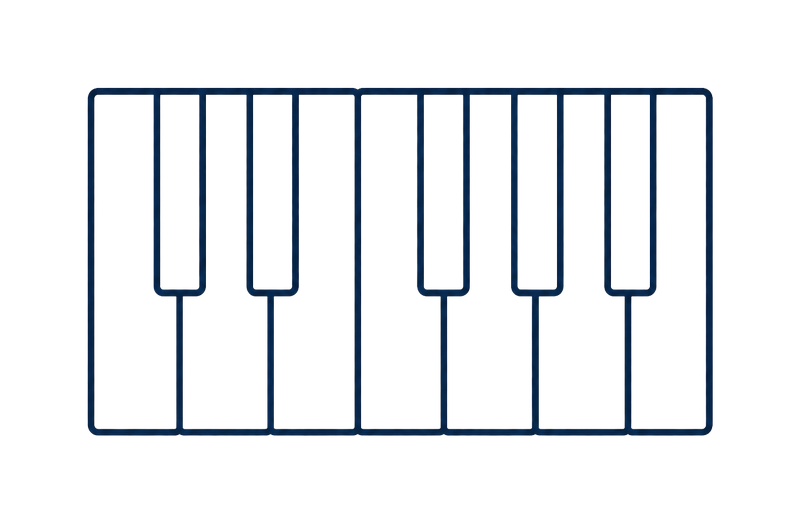
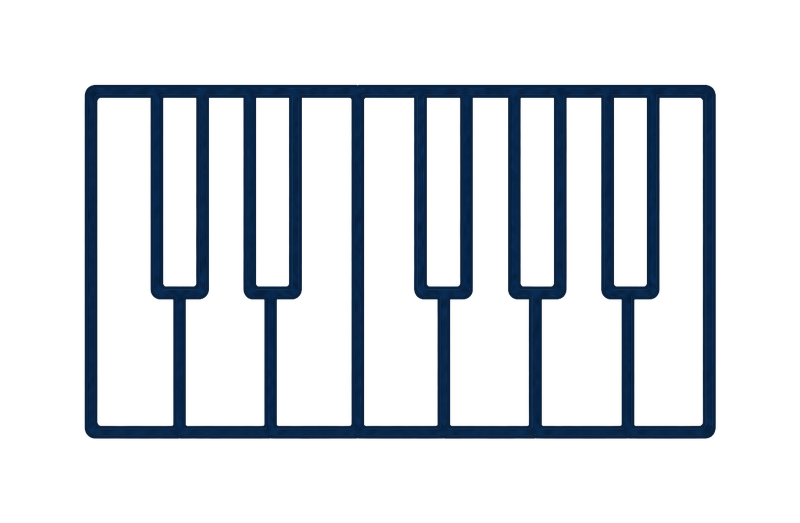
Afina tamanhos: Bateria/Concertina/Teoria Musical maiores, Piano mais grosso
Reduz o padding destes três ícones para ficarem maiores no cartão, e
engrossa o traço do Piano (dilatação do canal alfa) a pedido do
utilizador.

Changed region(s): [[0.0938, 0.153, 0.9062, 0.8566]]

diff --git a/src/app/aluno/pedido/page.tsx b/src/app/aluno/pedido/page.tsx
@@ -11,7 +11,9 @@ import { OptionCard } from '@/components/option-card'
 const ICONE_PADDING: Record<string, string | undefined> = {
   Guitarra: '14%',
   'Baixo Elétrico': '14%',
-  Bateria: '18%',
+  Bateria: '14%',
+  Concertina: '18%',
+  'Teoria Musical': '18%',
 }
 
 export default async function PedidoPage({
